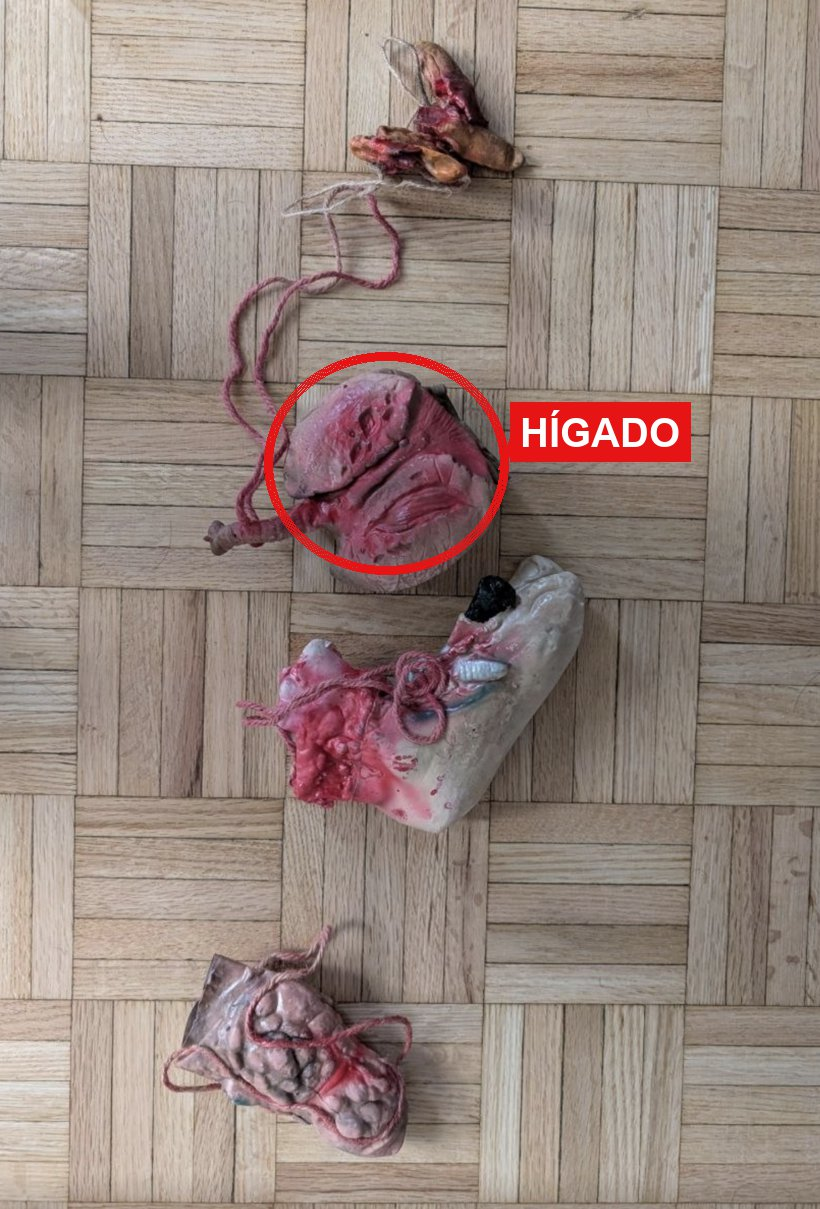
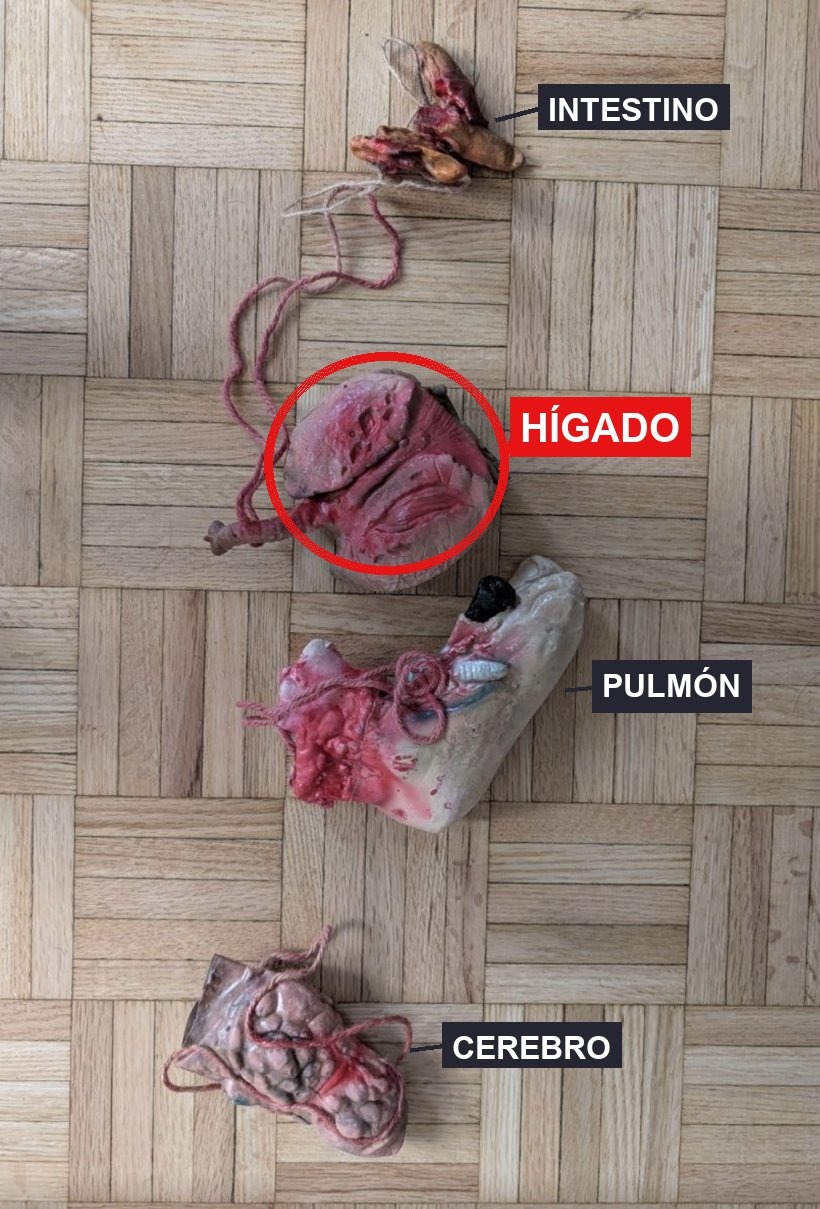
consola: label all four organs in the reference photo
Liver circled (real); decoys labelled Intestino / Pulmon / Cerebro
(invented, since they are stylized props). Image cache-bust v2.

diff --git a/fede/escaperoom/consola/index.html b/fede/escaperoom/consola/index.html
@@ -110,12 +110,12 @@
   <details id="secOrganos">
     <summary>ÓRGANOS</summary>
     <p class="quiet">El hígado real es el 2.º desde arriba (marcado en rojo). Los otros tres son señuelos.</p>
-    <img src="img/organos.jpg?v=1" alt="Órganos — hígado marcado" style="max-width:100%;display:block;border:1px solid var(--line);margin:6px 0;">
+    <img src="img/organos.jpg?v=2" alt="Órganos — hígado marcado" style="max-width:100%;display:block;border:1px solid var(--line);margin:6px 0;">
     <div class="claves">
       <div><b>Hígado (real)</b><span>2.º desde arriba · rojizo, dos lóbulos, liso</span></div>
-      <div><b>Señuelo 1</b><span>arriba · masa chica tostada</span></div>
-      <div><b>Señuelo 2</b><span>3.º · alargado, mitad pálido, trozo negro</span></div>
-      <div><b>Señuelo 3</b><span>abajo · rugoso, tipo cerebro</span></div>
+      <div><b>Intestino (señuelo)</b><span>arriba · masa chica tostada</span></div>
+      <div><b>Pulmón (señuelo)</b><span>3.º · alargado, mitad pálido, trozo negro</span></div>
+      <div><b>Cerebro (señuelo)</b><span>abajo · rugoso, tipo cerebro</span></div>
     </div>
   </details>
 
